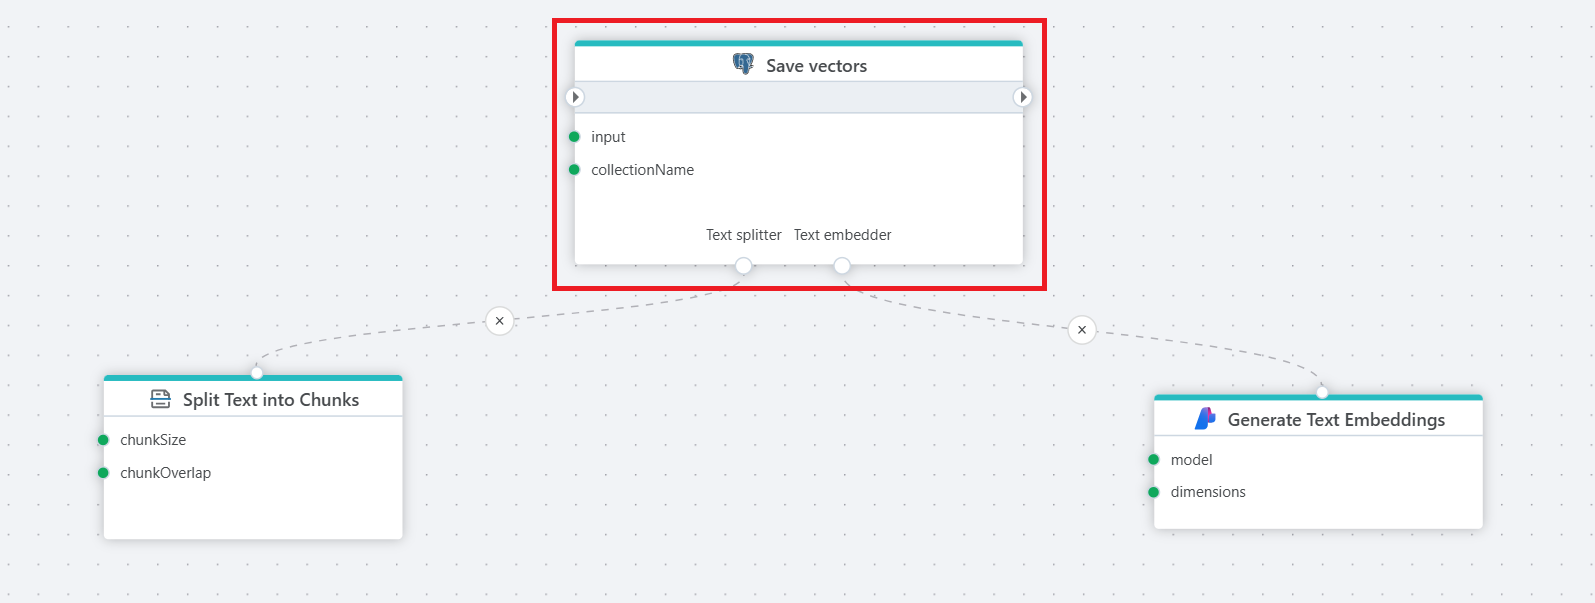
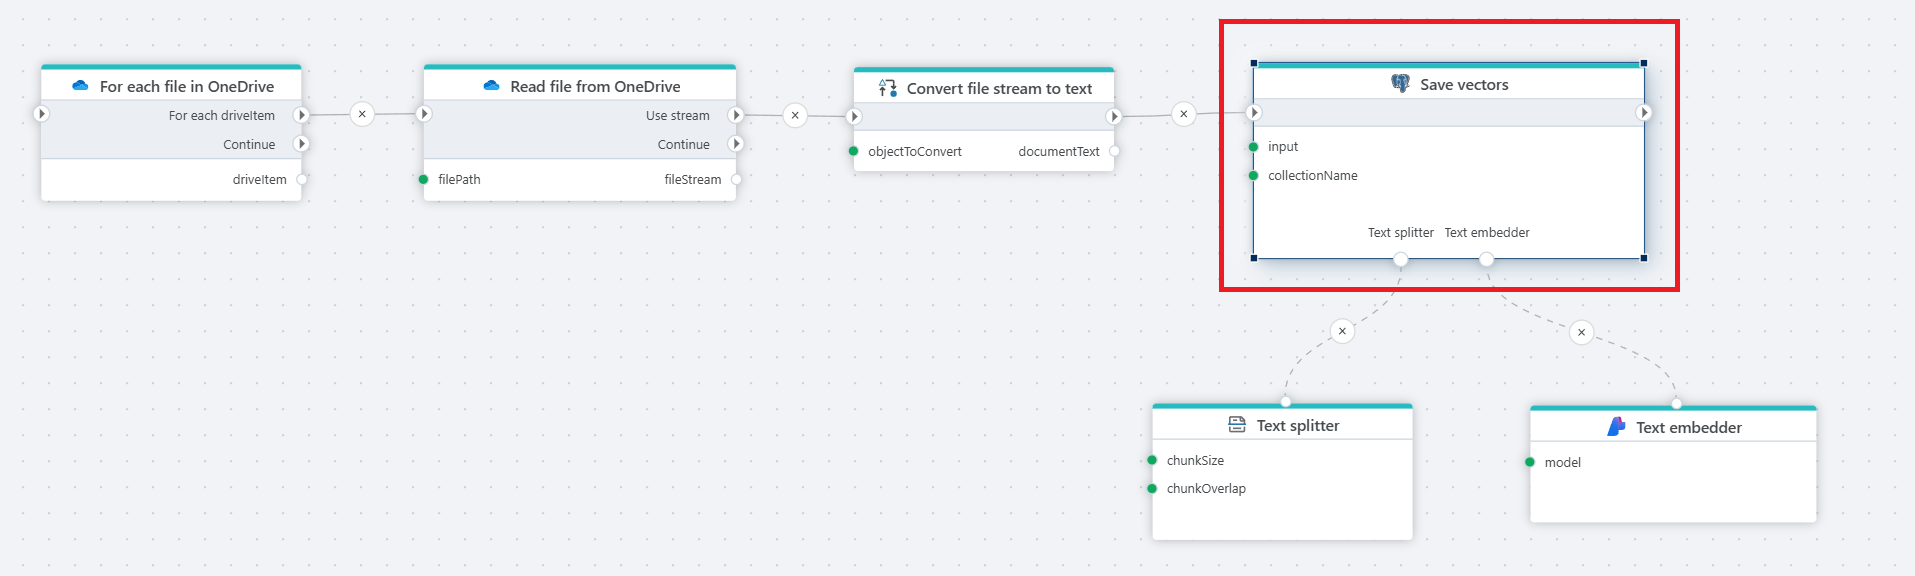
corrections

diff --git a/articles/flow/actions/ftp/foreach-file-name.md b/articles/flow/actions/ftp/foreach-file-name.md
@@ -1,6 +1,6 @@
 # For each file info
 
-Iterates over a list of information per file in an FTP / SFTP directory.
+Iterates over a list of information per file in an FTP / SFTP directory and sub directories (optional).
 
 ![img](../../../../images/flow/ftp-foreach-file-info.png)
 
@@ -19,13 +19,15 @@ A **FileInfo** object which contains the following properties:
 - **LastModified** – The date and time the file was last modified.
 - **Size** – The size of the file in bytes.
 
+
+
 ## Properties
 
-| Name             | Type      |Description                                             |
-|------------------|-----------|--------------------------------------------------------|
-| Title  | Optional |   The title of the action.       |
-| Connection | Required  | Select a connection to the FTP or SFTP server where files are located. |
-| File name | Optional | Select or enter the name of the file. |
-| Directory path | Optional | Select or enter the directory to download from. |
-| Include files in sub directories | Optional |  |
-| Description   | Optional | Additional notes or comments about the action or configuration. |
+| Name                          | Type      | Description                                                                 |
+|-------------------------------|-----------|-----------------------------------------------------------------------------|
+| Title                         | Optional  | The title of the action.                                                   |
+| Connection                    | Required  | Select a connection to the FTP or SFTP server where files are located.     |
+| File name                     | Optional  | Select or enter the name of the file. |
+| Directory path                | Optional  | Select or enter the directory to look in. |
+| Include files in sub directories | Optional  | Enable this option to include files from all nested subdirectories.         |
+| Description                   | Optional  | Additional notes or comments about the action or configuration.            |

diff --git a/articles/flow/actions/ftp/upload-file.md b/articles/flow/actions/ftp/upload-file.md
@@ -9,19 +9,6 @@ This flow [downloads](download-file-as-byte-array.md) an invoice as a PDF file f
 
 <br/>
 
-## Properties
-
-| Name             | Type      |Description                                             |
-|------------------|-----------|--------------------------------------------------------|
-| Title  | Optional |   The title of the action.        |
-| Connection | Required  | Select a connection to the FTP or SFTP server where you plan to upload your file. |
-| File name | Required | Select or enter the name of the file to upload. |
-| Directory path | Optional | Select or enter the directory path to upload to. |
-| Source type |  |  |
-| Source file | Required | Select the source content for the file |
-| Replace existing file |  |  |
-
-
 ## Properties 
 
 | Name                  | Type      | Description                                                                 |

diff --git a/articles/flow/actions/ai/text-splitter.md b/articles/flow/actions/ai/text-splitter.md
@@ -6,7 +6,7 @@ Defines a Text splitter object that can be used in various AI-related nodes with
 ![img](../../../../images/flow/text-splitter-ai.png)
 
 **Example** ![img](../../../../images/strz.jpg)  
-This flow takes a large block of text, splits it into smaller chunks, then converting it into an embedding vector using a [text embedder](../azure-ai/text-embedder.md), and saves everything into a [PostgreSQL](../postgresql/vector-save.md) database for later semantic search.
+This flow [reads](../onedrive/read-file-from-onedrive-as-byte-array.md) files from OneDrive, [converts](../built-in/convert.md) their content to text, splits it into chunks, generates [embedding](../azure-ai/text-embedder.md) vectors, and [stores](../postgresql/vector-save.md) them in a PostgreSQL database for semantic search.
 
 <br/>
 

diff --git a/articles/flow/actions/postgresql/vector-save.md b/articles/flow/actions/postgresql/vector-save.md
@@ -6,7 +6,8 @@ Saves vectors in PostgreSQL database based on input text.
 ![img](../../../../images/flow/vector-save.png)
 
 **Example** ![img](../../../../images/strz.jpg)  
-This flow takes a large block of text, [splits](../ai/text-splitter.md) it into smaller chunks, then converting it into an embedding vector using a [text embedder](../azure-ai/text-embedder.md), and saves everything into a PostgreSQL database for later semantic search.
+This flow [reads](../onedrive/read-file-from-onedrive-as-byte-array.md) files from OneDrive, [converts](../built-in/convert.md) their content to text, [splits](../ai/text-splitter.md) it into chunks, generates [embedding](../azure-ai/text-embedder.md) vectors, and stores them in a PostgreSQL database for semantic search.
+
 
 <br/>
 

diff --git a/articles/flow/actions/ftp/download-file-as-byte-array.md b/articles/flow/actions/ftp/download-file-as-byte-array.md
@@ -11,7 +11,7 @@ This flow **downloads** an invoice as a PDF file from an FTP server, [converts](
 
 ## Returns
 
-Returns chosen file as a [byte](https://learn.microsoft.com/en-us/dotnet/api/system.byte) [array](https://learn.microsoft.com/en-us/dotnet/csharp/language-reference/builtin-types/arrays)
+Returns chosen file as a [byte](https://learn.microsoft.com/en-us/dotnet/api/system.byte) [array](https://learn.microsoft.com/en-us/dotnet/csharp/language-reference/builtin-types/arrays).
 
 <br/>
 

diff --git a/articles/flow/actions/ftp/download-file-as-stream.md b/articles/flow/actions/ftp/download-file-as-stream.md
@@ -11,7 +11,7 @@ This flow **downloads** an invoice as a DOCX file from an FTP server. For archiv
 
 ## Returns
 
-[Stream](https://learn.microsoft.com/en-us/dotnet/api/system.io.stream)
+Returns chosen file as a [Stream](https://learn.microsoft.com/en-us/dotnet/api/system.io.stream).
 
 ## Properties
 
